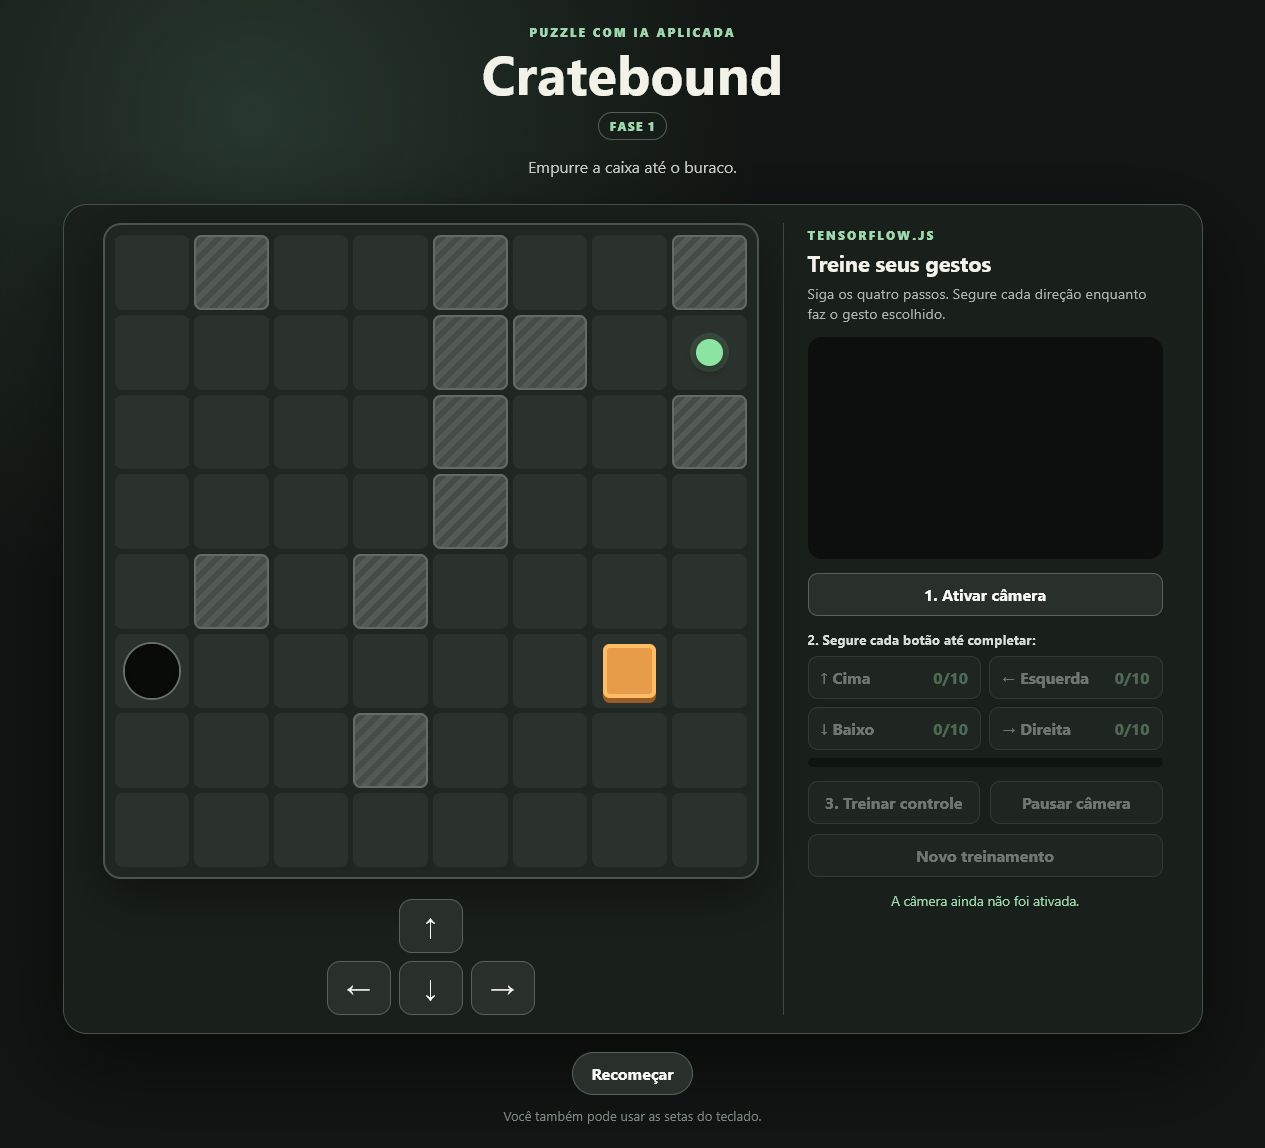
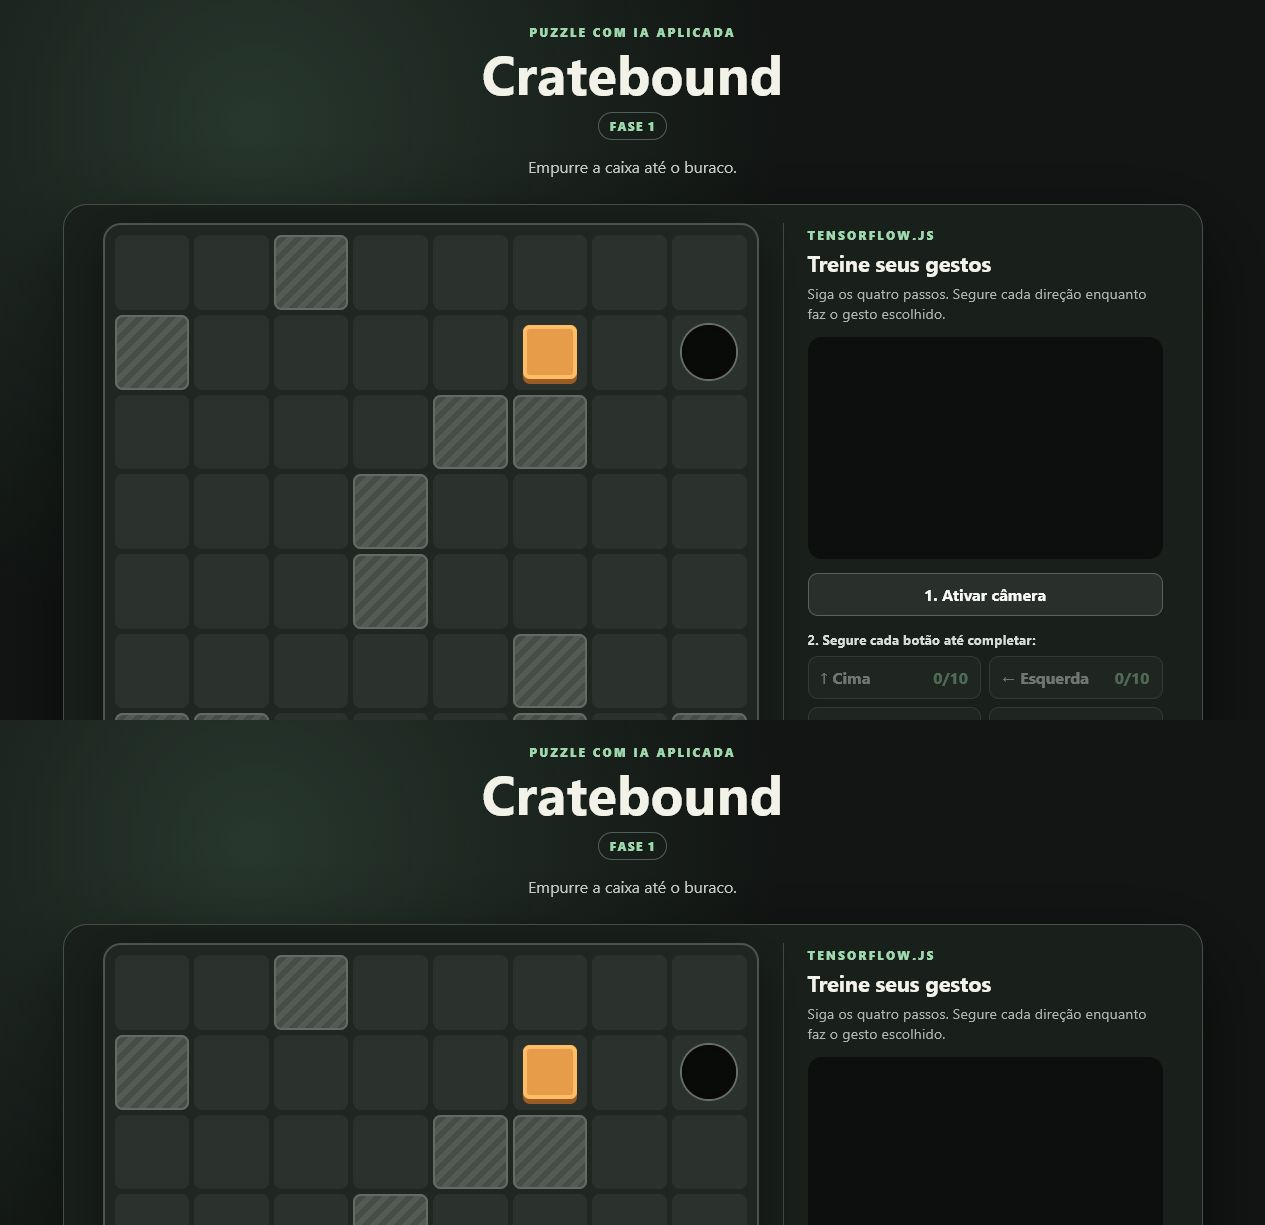
feat: restaurar autoria no rodape

diff --git a/test/interface/presentation.test.js b/test/interface/presentation.test.js
@@ -1,0 +1,23 @@
+import test from "node:test";
+import assert from "node:assert/strict";
+import { readFile } from "node:fs/promises";
+
+test("exibe autoria e contexto acadêmico no rodapé", async () => {
+  const html = await readFile(
+    new URL("../../index.html", import.meta.url),
+    "utf8",
+  );
+  const css = await readFile(
+    new URL("../../styles.css", import.meta.url),
+    "utf8",
+  );
+
+  assert.match(html, /<footer class="credits">/);
+  assert.match(html, /Powered by <strong>Claudney Sarti Sessa<\/strong>/);
+  assert.match(
+    html,
+    /Projeto desenvolvido para o curso de Engenharia de Software com IA Aplicada/,
+  );
+  assert.match(html, /UNIPDS/);
+  assert.match(css, /\.credits\s*{/);
+});

diff --git a/styles.css b/styles.css
@@ -310,6 +310,22 @@ h1 {
   text-align: center;
 }
 
+.credits {
+  margin-top: 16px;
+  color: #9da69f;
+  font-size: .76rem;
+  line-height: 1.5;
+  text-align: center;
+}
+
+.credits p {
+  margin: 2px 0;
+}
+
+.credits strong {
+  color: #dbe5dd;
+}
+
 @media (max-width: 1040px) {
   .game {
     width: min(100%, 680px);
@@ -330,6 +346,7 @@ h1 {
   .play-area { padding: 10px; border-radius: 18px; }
   .sample-grid, .camera-actions { grid-template-columns: 1fr; }
   .camera-reset { grid-column: 1; }
+  .credits { margin-top: 10px; font-size: .68rem; }
 }
 
 .won .board {

diff --git a/index.html b/index.html
@@ -61,6 +61,12 @@
 
       <button class="reset" data-reset>Recomeçar</button>
       <p class="hint">Você também pode usar as setas do teclado.</p>
+
+      <footer class="credits">
+        <p>Powered by <strong>Claudney Sarti Sessa</strong></p>
+        <p>Projeto desenvolvido para o curso de Engenharia de Software com IA Aplicada</p>
+        <p>UNIPDS</p>
+      </footer>
     </main>
 
     <script type="module" src="./src/interface/browser-app.js"></script>

diff --git a/README.md b/README.md
@@ -7,7 +7,7 @@
 [![CI](https://github.com/claudneysessa/cratebound/actions/workflows/ci.yml/badge.svg)](https://github.com/claudneysessa/cratebound/actions/workflows/ci.yml)
 [![JavaScript](https://img.shields.io/badge/JavaScript-ES%20Modules-F7DF1E?logo=javascript&logoColor=000)](https://developer.mozilla.org/docs/Web/JavaScript)
 [![TensorFlow.js](https://img.shields.io/badge/TensorFlow.js-4.22-FF6F00?logo=tensorflow&logoColor=fff)](https://www.tensorflow.org/js)
-[![Tests](https://img.shields.io/badge/tests-10%20passing-72d892)](#quality-engineering)
+[![Tests](https://img.shields.io/badge/tests-11%20passing-72d892)](#quality-engineering)
 [![No build](https://img.shields.io/badge/build-none-9fe3bd)](#run-locally)
 
 [Play live](https://claudneysessa.github.io/cratebound/) · [Português](README.pt-BR.md) · [Architecture](docs/ARCHITECTURE.md) · [Contributing](CONTRIBUTING.md)
@@ -125,7 +125,7 @@ The automated suite currently covers:
 npm test
 ```
 
-Expected result: **10 passing tests** using Node.js' native test runner.
+Expected result: **11 passing tests** using Node.js' native test runner.
 
 Every push and pull request is checked by GitHub Actions on supported Node.js
 versions.

diff --git a/README.pt-BR.md b/README.pt-BR.md
@@ -7,7 +7,7 @@
 [![CI](https://github.com/claudneysessa/cratebound/actions/workflows/ci.yml/badge.svg)](https://github.com/claudneysessa/cratebound/actions/workflows/ci.yml)
 [![JavaScript](https://img.shields.io/badge/JavaScript-ES%20Modules-F7DF1E?logo=javascript&logoColor=000)](https://developer.mozilla.org/pt-BR/docs/Web/JavaScript)
 [![TensorFlow.js](https://img.shields.io/badge/TensorFlow.js-4.22-FF6F00?logo=tensorflow&logoColor=fff)](https://www.tensorflow.org/js)
-[![Testes](https://img.shields.io/badge/testes-10%20aprovados-72d892)](#engenharia-de-qualidade)
+[![Testes](https://img.shields.io/badge/testes-11%20aprovados-72d892)](#engenharia-de-qualidade)
 
 [Jogar agora](https://claudneysessa.github.io/cratebound/) · [English](README.md) · [Arquitetura](docs/ARCHITECTURE.md) · [Como contribuir](CONTRIBUTING.md)
 
@@ -111,7 +111,7 @@ Os testes automatizados cobrem:
 npm test
 ```
 
-Resultado esperado: **10 testes aprovados** com o test runner nativo do Node.js.
+Resultado esperado: **11 testes aprovados** com o test runner nativo do Node.js.
 O GitHub Actions executa a suíte a cada envio e pull request.
 
 ## Executar localmente

diff --git a/CHANGELOG.md b/CHANGELOG.md
@@ -63,6 +63,16 @@ Todas as alterações relevantes deste projeto serão registradas neste arquivo.
 - Ajustado o total documentado para 10 testes automatizados.
 - Configurado o novo clone para usar os hooks versionados em `.githooks`.
 
+### 12:30:31 -03:00
+
+- Criado primeiro o teste da apresentação para exigir autoria e contexto acadêmico no rodapé.
+- Confirmada a fase vermelha: 10 testes passaram e o novo teste falhou pela ausência do rodapé na aplicação modular.
+- Adicionado o crédito `Powered by Claudney Sarti Sessa` à aplicação principal.
+- Registrado que o projeto foi desenvolvido para o curso de Engenharia de Software com IA Aplicada da UNIPDS.
+- Estilizado o rodapé para manter legibilidade e hierarquia visual em desktop e telas estreitas.
+- Regenerados os prints desktop e responsivo do README com o crédito visível.
+- Atualizado o total documentado para 11 testes automatizados.
+
 ## 2026-07-29
 
 ### 20:53:45 -03:00
